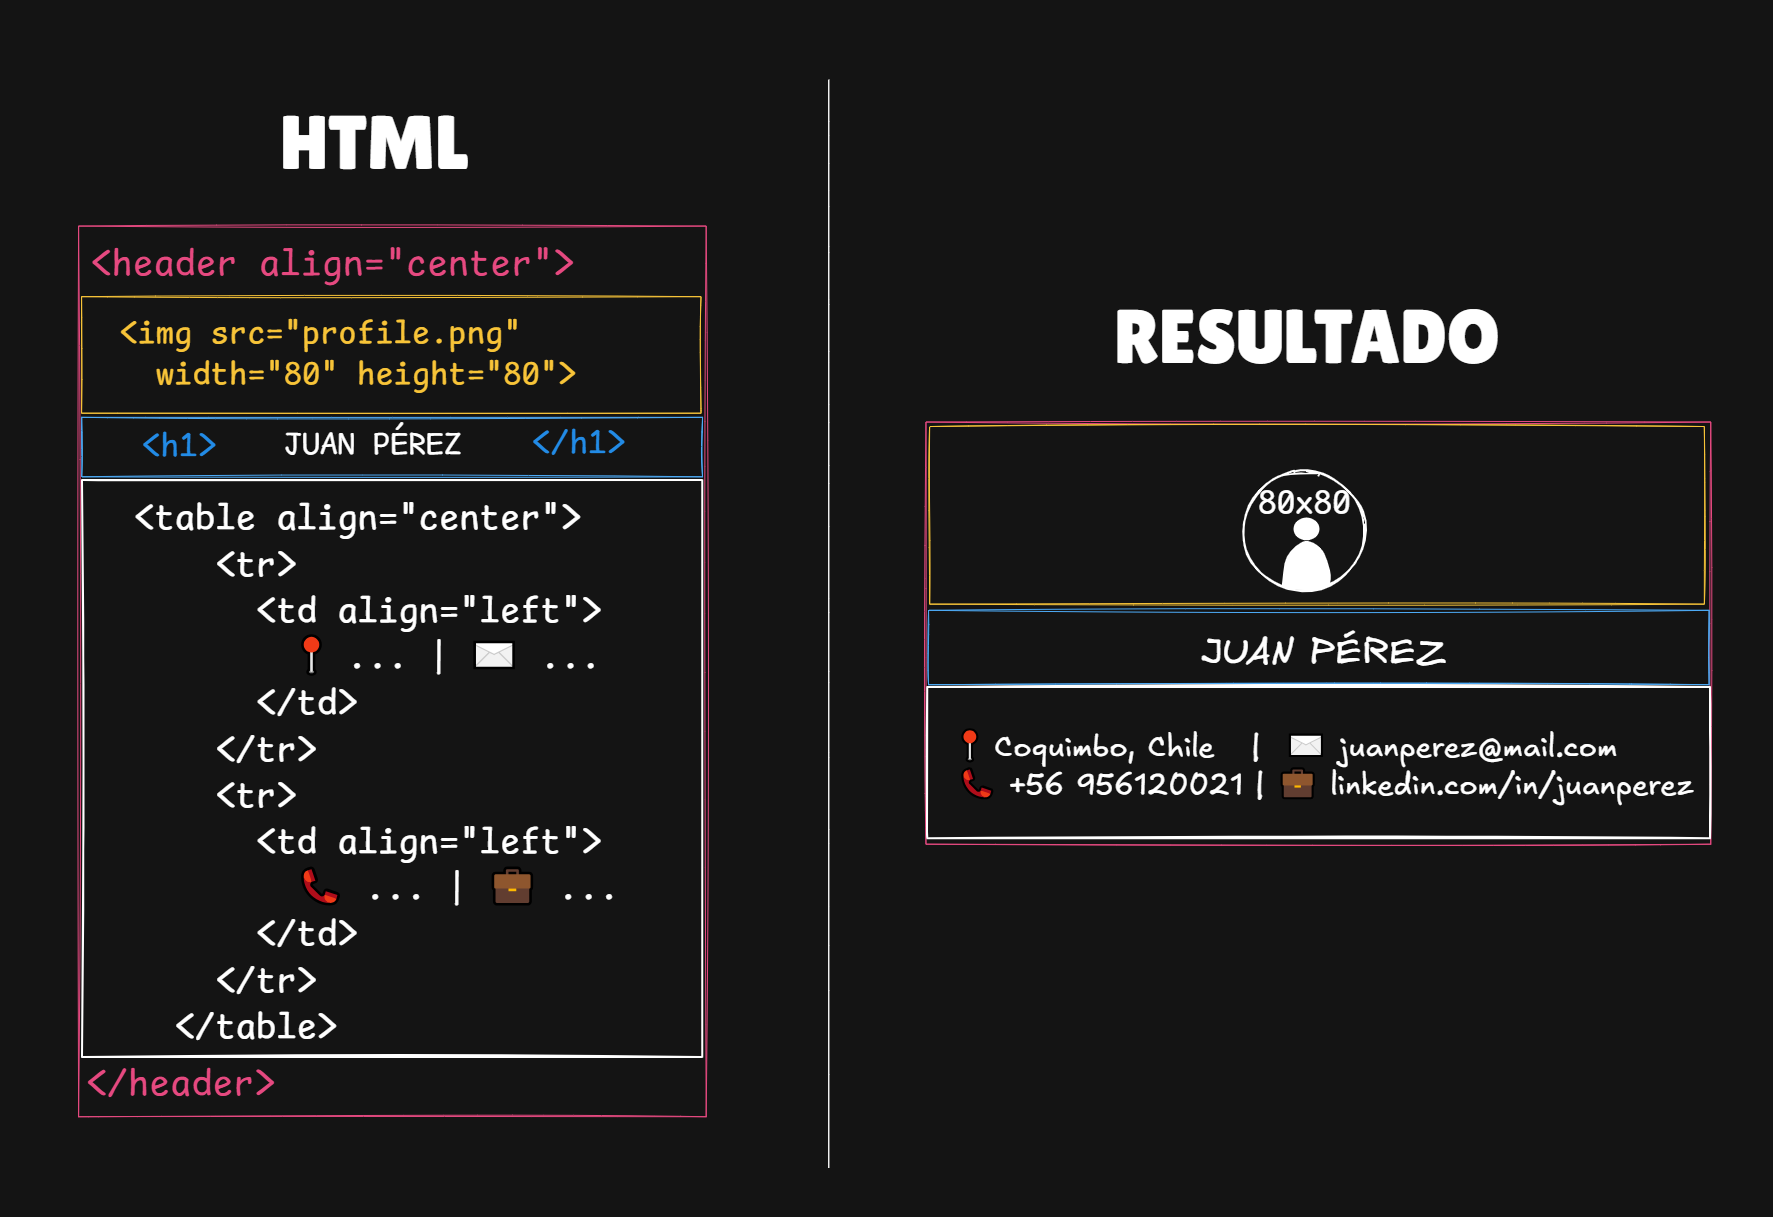
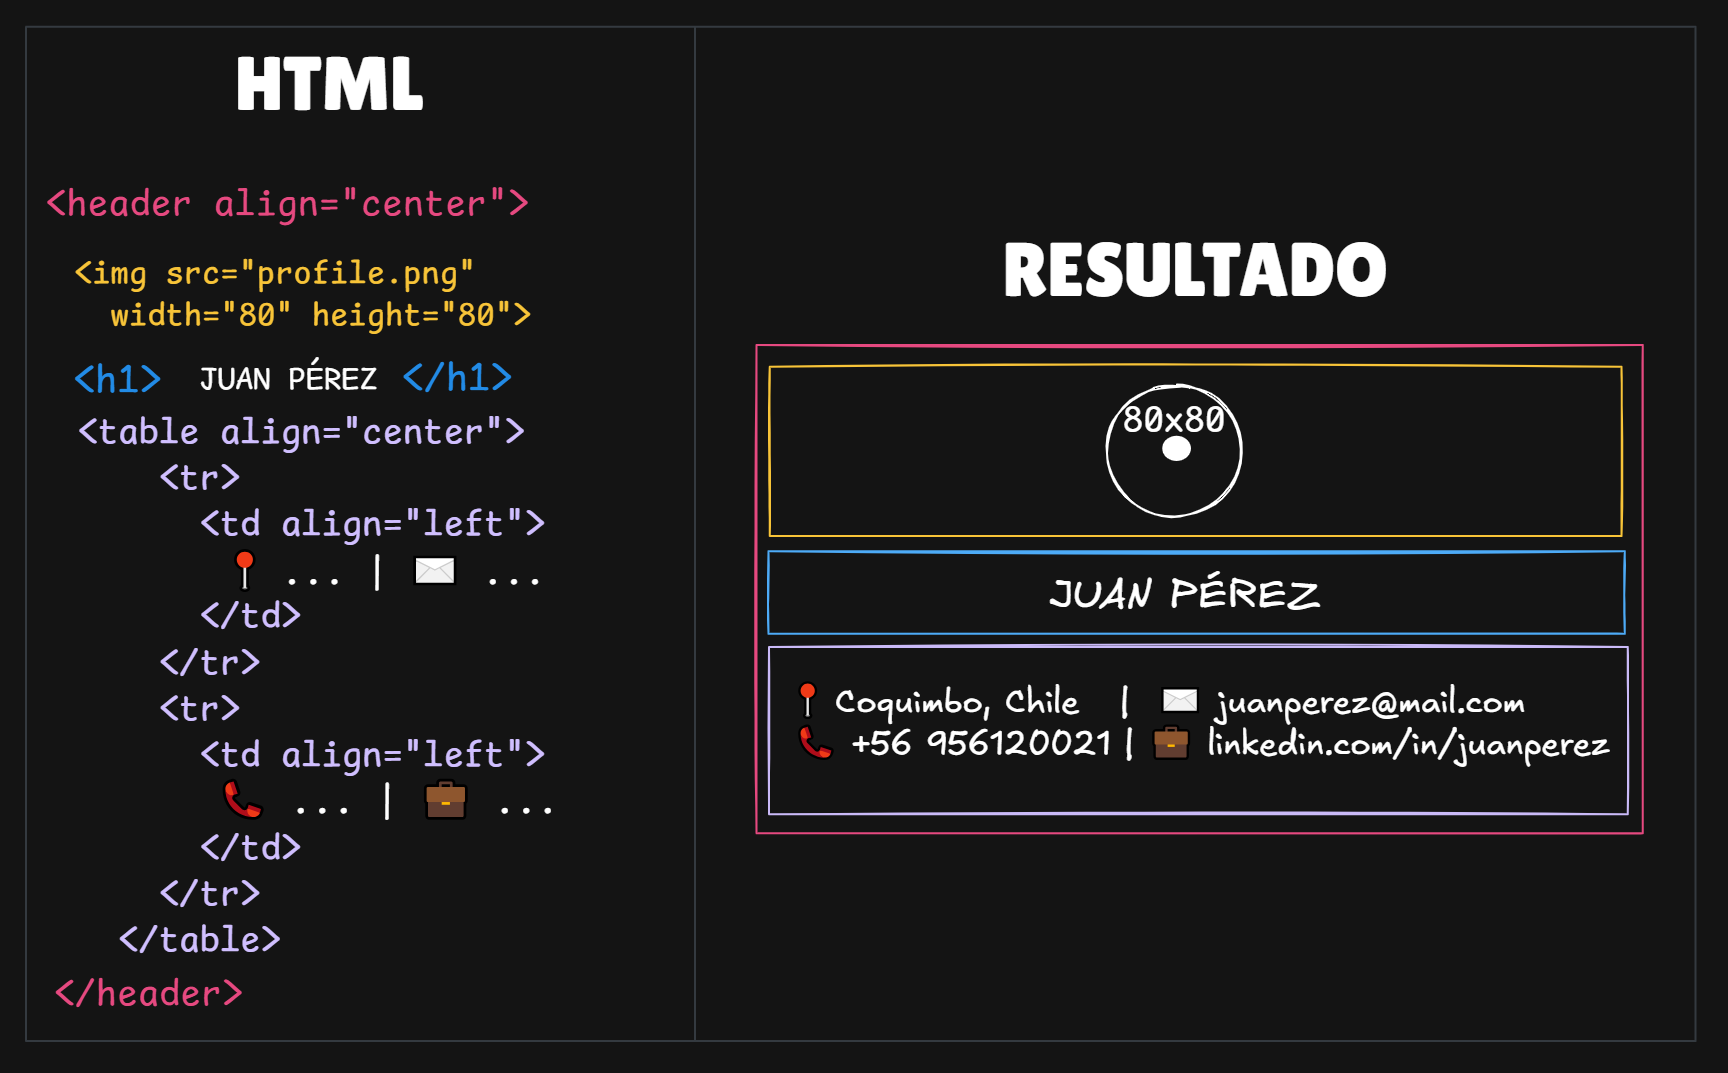
up: content

diff --git a/_includes/folder-tree.html b/_includes/folder-tree.html
@@ -1,0 +1,122 @@
+{% assign tree = include.tree %}
+<style scoped>
+    :root {
+      --bg: #f9fafb;
+      --line: #282a2d;
+      --accent: #fbbf24;
+      --radius: 4px;
+    }
+
+    .tree {
+      max-width: 600px;
+      margin: auto;
+      padding: 1rem;
+      background: #1f1f1f;
+      border-radius: var(--radius);
+      box-shadow: 0 10px 25px rgba(0,0,0,0.05);
+    }
+
+    ul.ftree {
+      list-style: none;
+      padding-left: 1.1rem;
+      margin: 0;
+      border-left: 1px solid var(--line);
+      user-select: none;
+    }
+
+    ul.ftree li {
+      position: relative;
+      margin: 0.3rem 0;
+      padding-left: 1rem;
+    }
+
+    ul.ftree li::before {
+      content: "";
+      position: absolute;
+      top: 1rem;
+      left: -1.5rem;
+      width: 1.5rem;
+      height: 2px;
+      background: var(--line);
+    }
+
+    summary {
+      cursor: pointer;
+      display: inline-block;
+      align-items: center;
+      gap: 0.3rem;
+      font-weight: 500;
+      border-radius: 6px;
+      padding: 0.2rem 0.3rem;
+      transition: background 0.2s;
+    }
+
+    summary:hover {
+      background: #434344;
+    }
+
+    summary::marker {
+      display: none;
+    }
+
+    .file {
+      display: inline-flex;
+      align-items: center;
+      gap: 0.5rem;
+      padding: 0.3rem 0.5rem;
+      border-radius: 6px;
+    }
+
+    .file:hover {
+      background: #434344;
+    }
+
+    .fa-folder,
+    .fa-folder-open {
+      color: var(--accent);
+      width: 16px;
+    }
+
+    .fa-html5 { color: #e34c26; }
+    .fa-css3-alt { color: #264de4; }
+    .fa-js { color: #facc15; }
+    .fa-image { color: #3b82f6; }
+    .fa-file { color: #6b7280; }
+
+    /* folder icon toggle */
+    details > summary .fa-folder-open {
+      display: none;
+    }
+    details[open] > summary .fa-folder {
+      display: none;
+    }
+    details[open] > summary .fa-folder-open {
+      display: inline-block;
+    }
+</style>
+<div class="tree">
+<ul class="ftree">
+  {% for item in tree %}
+    <li>
+      {% if item.type == "folder" %}
+        <details {% if item.open %}open{% endif %}>
+          <summary>
+            <i class="fa-solid fa-folder"></i>
+            <i class="fa-solid fa-folder-open"></i>
+            &nbsp;{{ item.name }}
+          </summary>
+          {% include folder-tree.html tree=item.children %}
+        </details>
+      {% else %}
+        <div class="file">
+          {% if item.icon == "image" %}
+          <i class="fa-solid fa-image fa-lg"></i> {{ item.name }}
+          {% else %}
+          <i class="fa-brands {{ item.icon }} fa-lg"></i> {{ item.name }}
+          {% endif %}
+        </div>
+      {% endif %}
+    </li>
+  {% endfor %}
+</ul>
+</div>

diff --git a/_includes/tree.html b/_includes/tree.html
@@ -1,0 +1,109 @@
+<style scoped>
+    .tree {
+  list-style: none;
+  padding-left: 1rem;
+  margin: 0;
+  border-left: 1px solid #333;
+  font-family: 'Segoe UI', sans-serif;
+  color: #d4d4d4;
+}
+
+.tree li {
+  position: relative;
+  padding-left: 1rem;
+  margin: 0.2rem 0;
+}
+
+.tree li::before {
+  content: "";
+  position: absolute;
+  top: 0.8rem;
+  left: -1rem;
+  width: 1rem;
+  height: 1px;
+  background: #333;
+}
+
+details > summary {
+  cursor: pointer;
+  display: flex;
+  align-items: center;
+  gap: 0.5rem;
+  padding: 0.2rem 0.4rem;
+  border-radius: 4px;
+  transition: background 0.2s;
+}
+
+details > summary:hover {
+  background: #3a3d41;
+}
+
+details > summary::-webkit-details-marker {
+  display: none;
+}
+
+.file {
+  display: flex;
+  align-items: center;
+  gap: 0.5rem;
+  padding: 0.2rem 0.4rem;
+  border-radius: 4px;
+  margin-left: 0.5rem;
+}
+
+.file:hover {
+  background: #3a3d41;
+}
+
+.fa-folder,
+.fa-folder-open {
+  color: #d7ba7d;
+  width: 16px;
+}
+
+.fa-html5 { color: #e34c26; }
+.fa-css3-alt { color: #264de4; }
+.fa-js { color: #f1e05a; }
+.fa-image { color: #4ec9b0; }
+.fa-file { color: #c5c5c5; }
+
+details > summary .fa-folder-open {
+  display: none;
+}
+
+details[open] > summary .fa-folder {
+  display: none;
+}
+
+details[open] > summary .fa-folder-open {
+  display: inline-block;
+}
+
+</style>
+
+{% assign tree = include.tree %}
+<ul class="tree">
+  {% for item in tree %}
+    <li>
+      {% if item.type == "folder" %}
+        <details {% if item.open %}open{% endif %}>
+          <summary>
+            <i class="fa-solid fa-folder"></i>
+            <i class="fa-solid fa-folder-open"></i>
+            {{ item.name }}
+          </summary>
+          {% include folder-tree.html tree=item.children %}
+        </details>
+      {% else %}
+        <div class="file">
+          {% if item.icon == "image" %}
+            <i class="fa-solid fa-image"></i> {{ item.name }}
+          {% else %}
+            <i class="fa-brands fa-{{ item.icon }}"></i>
+          {% endif %}
+          {{ item.name }}
+        </div>
+      {% endif %}
+    </li>
+  {% endfor %}
+</ul>

diff --git a/_includes/mermaid.html b/_includes/mermaid.html
@@ -1,4 +1,5 @@
-<div class="position-relative my-5" id="mermaid-container">
+<!-- id="mermaid-container" -->
+<div class="position-relative my-5">
 	{% include loading.html %}
 	<button onclick="{!document.fullscreenElement ? this.parentElement.requestFullscreen() : document.exitFullscreen()}" class="btn rounded-0 sticky-top bg-dark">
 		<i class="fa-solid fa-magnifying-glass text-light"></i>

diff --git a/assets/scripts/definePen.js b/assets/scripts/definePen.js
@@ -7,7 +7,6 @@ const removeNumbers = (str) => {
 }
 
 const definePen = (options) => {
-
 	const form = document.createElement("form");
 	form.action = "https://codepen.io/pen/define";
 	form.method = "POST";

diff --git a/_sass/_utilities.scss b/_sass/_utilities.scss
@@ -50,7 +50,7 @@ pre code[class$="cmd"] {
 }
 
 code.language-plaintext {
-	font-size: 16px;
+	// font-size: 16px;
 	color: #ffbb55;
 }
 

diff --git a/collections/_desafios/m2/01-evaluado-curriculum-vitae.md b/collections/_desafios/m2/01-evaluado-curriculum-vitae.md
@@ -8,6 +8,30 @@ show_next: true
 img_path: /assets/img/desafios/curriculum/
 github:
   name: eniDev911/m2-evaluado-curriculum
+folder_tree:
+  - type: folder
+    name: "mi-cv"
+    open: true
+    children:
+      - type: file
+        name: "index.html"
+        icon: "fa-html5"
+      - type: folder
+        name: "assets"
+        open: true
+        children:
+          - type: folder
+            name: css
+            children:
+              - type: file
+                name: "estilos.css"
+                icon: "fa-css3-alt"
+          - type: folder
+            name: img
+            children:    
+              - type: file
+                name: "profile.png"
+                icon: "image"
 ---
 
 ## __Contexto__
@@ -28,25 +52,15 @@ Cuando trabajamos en un sitio web o página web de forma local, es importante ma
 La estructura de un proyecto es fundamental. Veamos cómo organizar nuestro proyecto de manera adecuada. Para ello pensemos en las cosas más comunes que encontramos en cualquier proyecto web simple:
 
 - Un archivo html principal (Ejemplo: **`index.html`**)
-- Directorio para contener las imágenes (Ejemplo: **`portada.jpg`**)
+- Directorio para contener las imágenes (Ejemplo: **`portada.jpg`**, **`perfil.png`**)
 - Directorio para contener archivos de estilos (Ejemplo: **`estilos.css`**)
 - Directorio para contener archivos script (Ejemplo: **`funciones.js`**)
 
-Siguiendo esta estructura, mantendremos nuestro proyecto bien organizado. Además, es común agrupar estos directorios dentro de una carpeta llamada **`📂 assets`**.
+Siguiendo esta estructura, mantendremos un proyecto bien organizado. Además, es común agrupar estos directorios dentro de una carpeta llamada **`📂 assets`**.
 
 Para nuestro proyecto **CV** vamos a crear entonces el siguiente árbol de directorios y archivos:
 
-```bash
-📂 mi-cv
-├── 📂 assets
-│   ├── 📂 css # 👈 para las hojas de estilos
-│   │   └─ estilos.css
-│   ├── 📂 img # 👈 para las imágenes
-│   │   └─ perfil.png
-│   └── 📁 favicons # 👈 para los favicons (opcional)
-└── index.html # página principal
-```
-{: .nolineno .noheader }
+{% include folder-tree.html tree=page.folder_tree %}
 
 > Busca la foto que desees para colocar en el directorio `img`. En [https://robohash.org/](https://robohash.org/){: target='_blank' } puedes conseguir algunas imágenes de buena calidad basados en robots y más.
 {: .prompt-note }
@@ -58,15 +72,13 @@ Como sabemos, la estructura básica de un documento HTML debe incluir siempre do
 - La **cabecera del documento** ( `head`{:.tag} )
 - El **cuerpo del documento** ( `body`{:.tag} )
 
+La sección de cabecera `head`{:.tag} del documento se encarga de incluir [metadatos sobre la página](https://developer.mozilla.org/es/docs/Learn/HTML/Introduction_to_HTML/The_head_metadata_in_HTML){: target="_blank" }, como el título del documento, la codificación de caracteres, enlaces a hojas de estilo, scripts y otros recursos externos. Esta parte no es visible directamente para el usuario.
 
-La sección `head`{:.tag} se encarga de incluir [metadatos sobre la página]((https://developer.mozilla.org/es/docs/Learn/HTML/Introduction_to_HTML/The_head_metadata_in_HTML){: target="_blank" }), como el título del documento, la codificación de caracteres, enlaces a hojas de estilo, scripts y otros recursos externos. Esta parte no es visible directamente para el usuario.
-
-Por otro lado, la sección `body`{:.tag} contiene todo el contenido visual que se muestra en el navegador, como texto, imágenes, enlaces, botones, etc.
+Por otro lado, la sección `body`{:.tag} del documento se encarga de todo el contenido visual que se muestra en el navegador, como texto, imágenes, enlaces, botones, etc.
 
 A continuación, veamos una ilustración que representa las etiquetas principales de cualquier documento HTML5:
 
-
-![img doc html](https://enidev911.github.io/fullstackjsg33/guias/html/guia-general/images/estructura-documento.png){: .rounded }
+![Documento HTML graph](https://raw.githubusercontent.com/EniDev911/assets/refs/heads/main/svg/html/documentoHtml.svg)
 
 Existen varias etiquetas que podemos utilizar en esta sección de cabecera del documento:
 
@@ -82,7 +94,7 @@ Existen varias etiquetas que podemos utilizar en esta sección de cabecera del d
 
 </div>
 
-También en la cabera se suele utilizar las etiquetas **Open Graph** que permiten destacar más nuestro sitio o página web.
+También en la cabecera de un documento HTML se suele utilizar las etiquetas **Open Graph** que permiten destacar más nuestro sitio o página web.
 
 ### __¿Qué es Open Graph?__
 
@@ -185,16 +197,16 @@ Para ello, nos guiaremos con la siguiente ilustración a modo de ejemplo:
 ```html
 <header align="center">
   <img src="https://i.ibb.co/SXnSFrkB/profile.png" width="80" height="80" alt="cv photo">
-  <h1>Marco Contreras</h1>
+  <h1>JUAN PERÉZ</h1>
   <table align="center">
     <tr>
       <td align="left">
-        📍 Coquimbo, Chile | ✉ mcherrera@mail.com
+        📍 Coquimbo, Chile | ✉ juanperez@mail.com
       </td>
     </tr>
     <tr>
       <td align="left">
-        📞 +56 956120021 | 💼 linkedin.com/in/mcherrera911
+        📞 +56 956120021 | 💼 linkedin.com/in/juanperez
       </td>
     </tr>
   </table>
@@ -203,7 +215,7 @@ Para ello, nos guiaremos con la siguiente ilustración a modo de ejemplo:
 ```
 {: .nolineno }
 
-### __Contenido del Documento__
+### __✍ Paso 4: Secciones del Curriculum__
 
 Dentro del contenido principal vamos a estar utilizando básicamente secciones para cada apartado como sería los **datos personales**, **formación académica**, **experiencia**, **información complementaria**, etc. Un ejemplo de ello sería lo siguiente:
 
